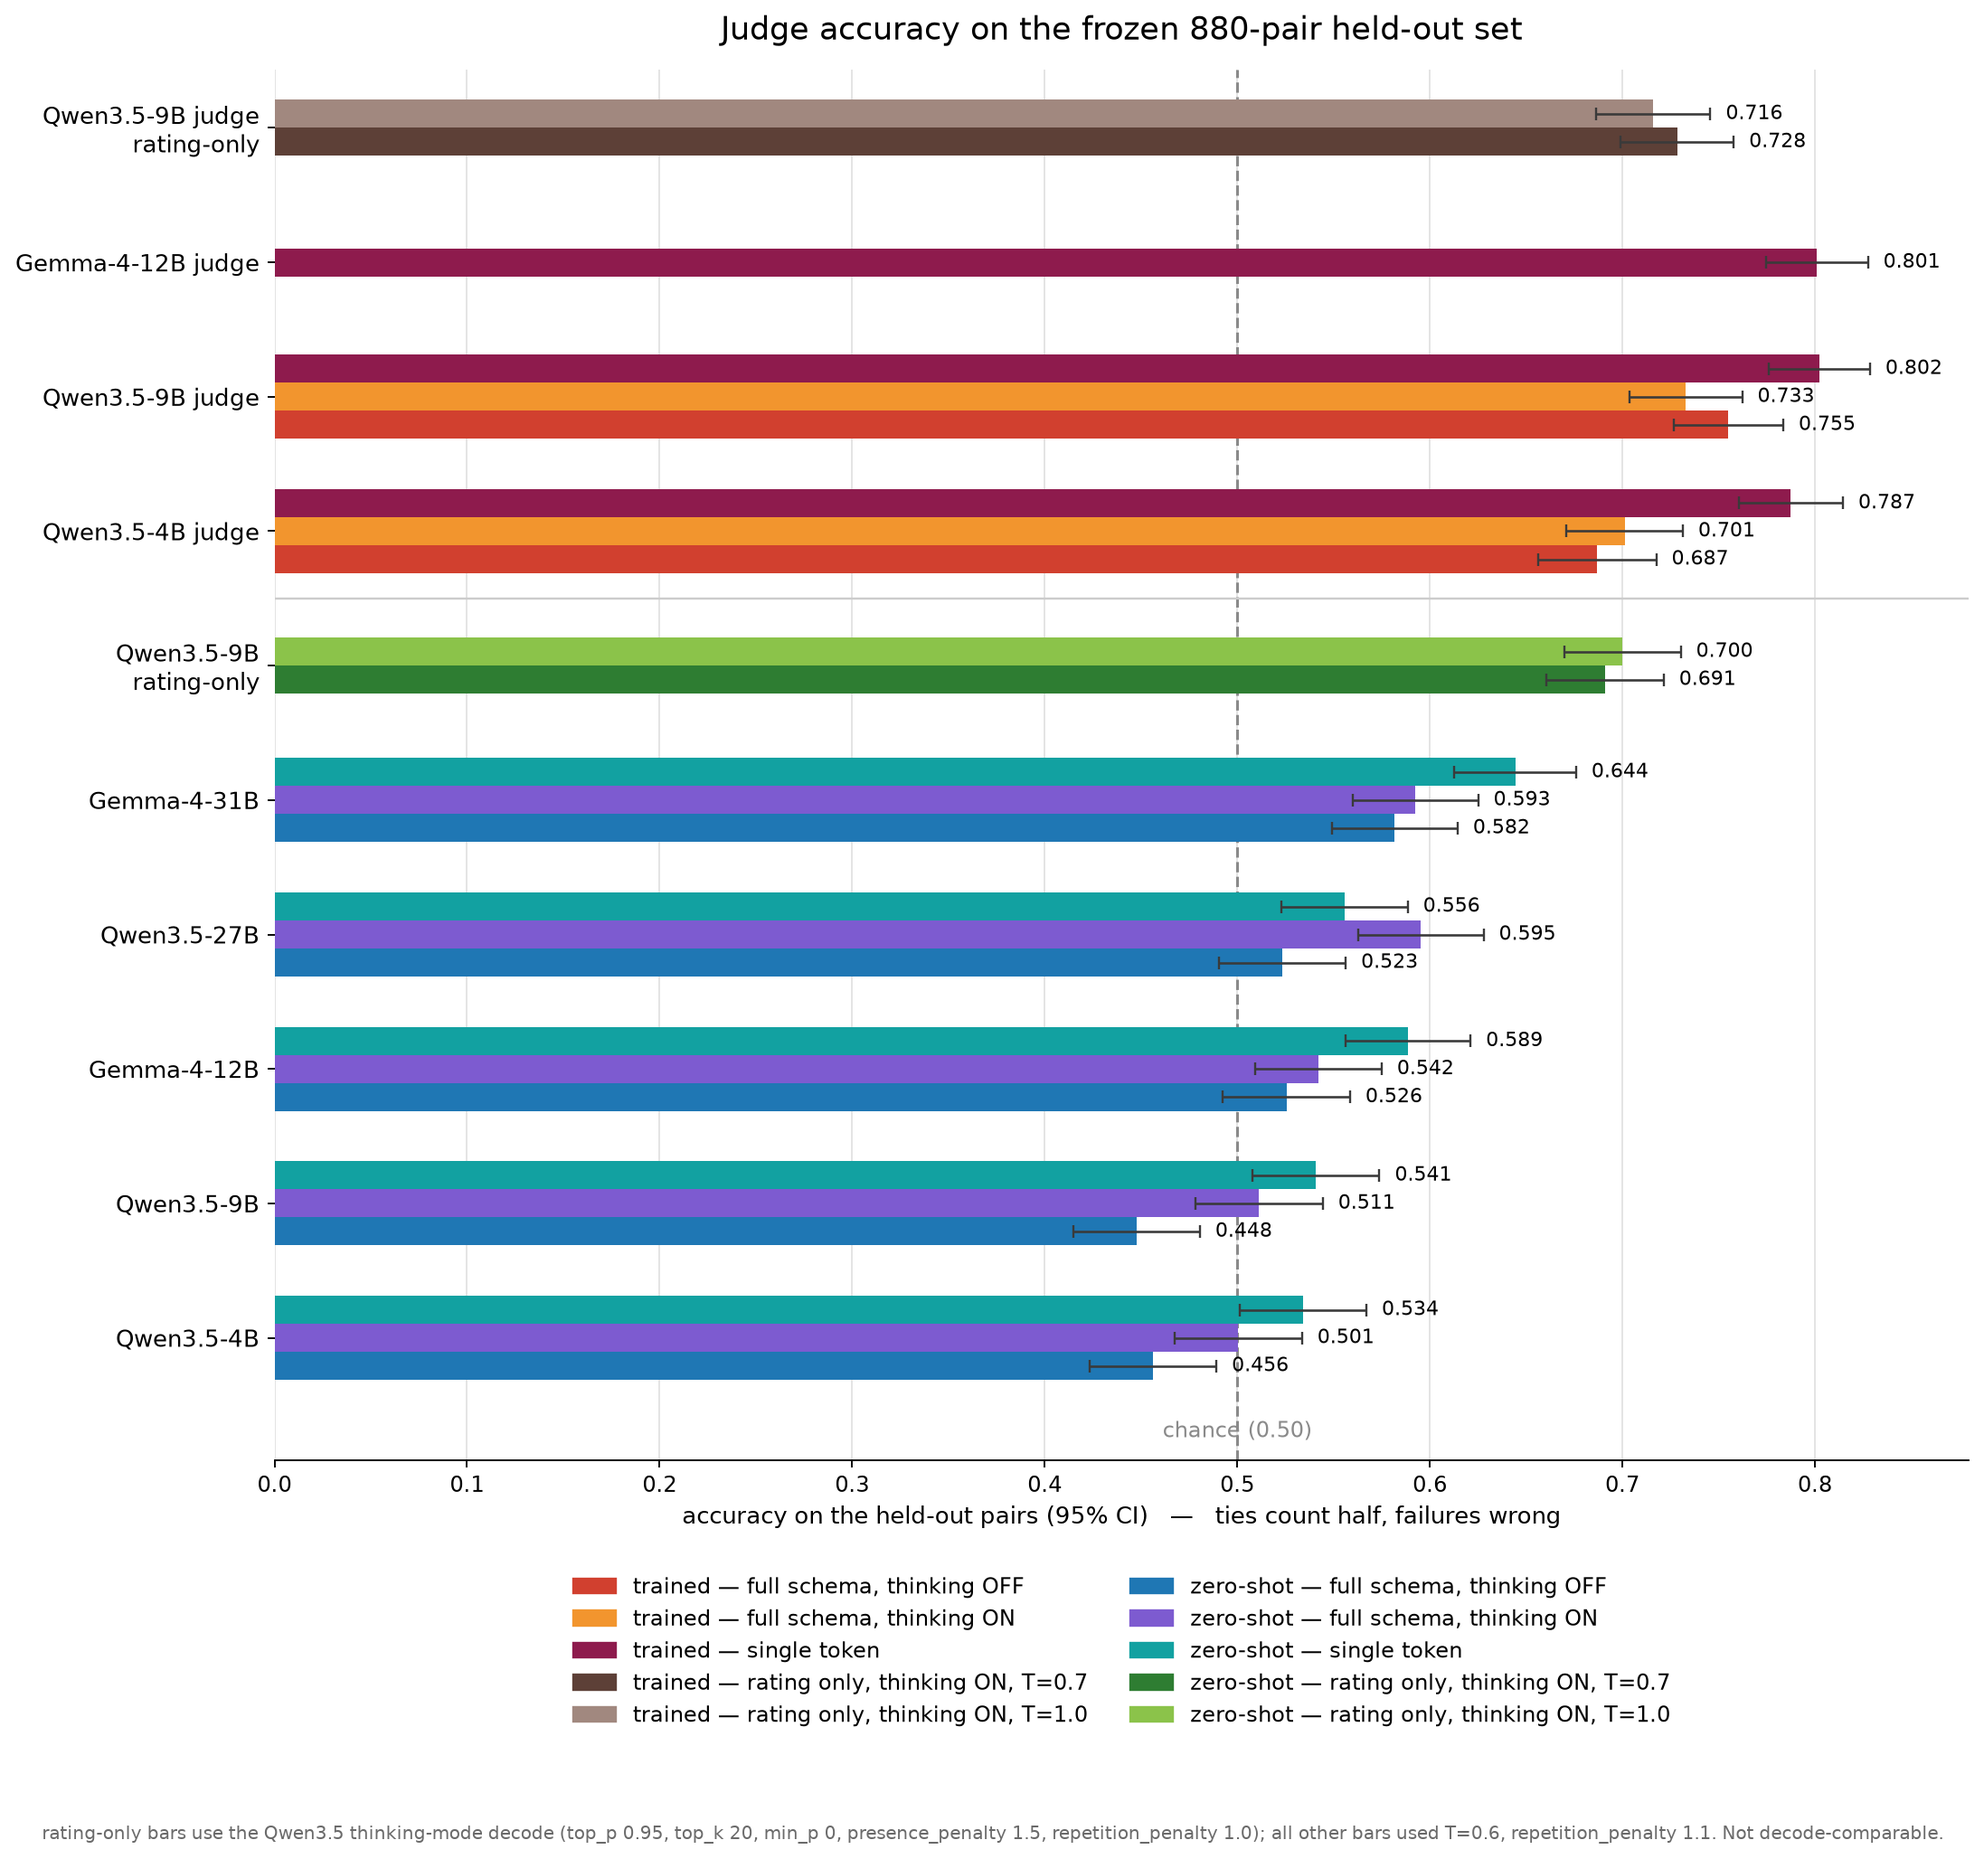
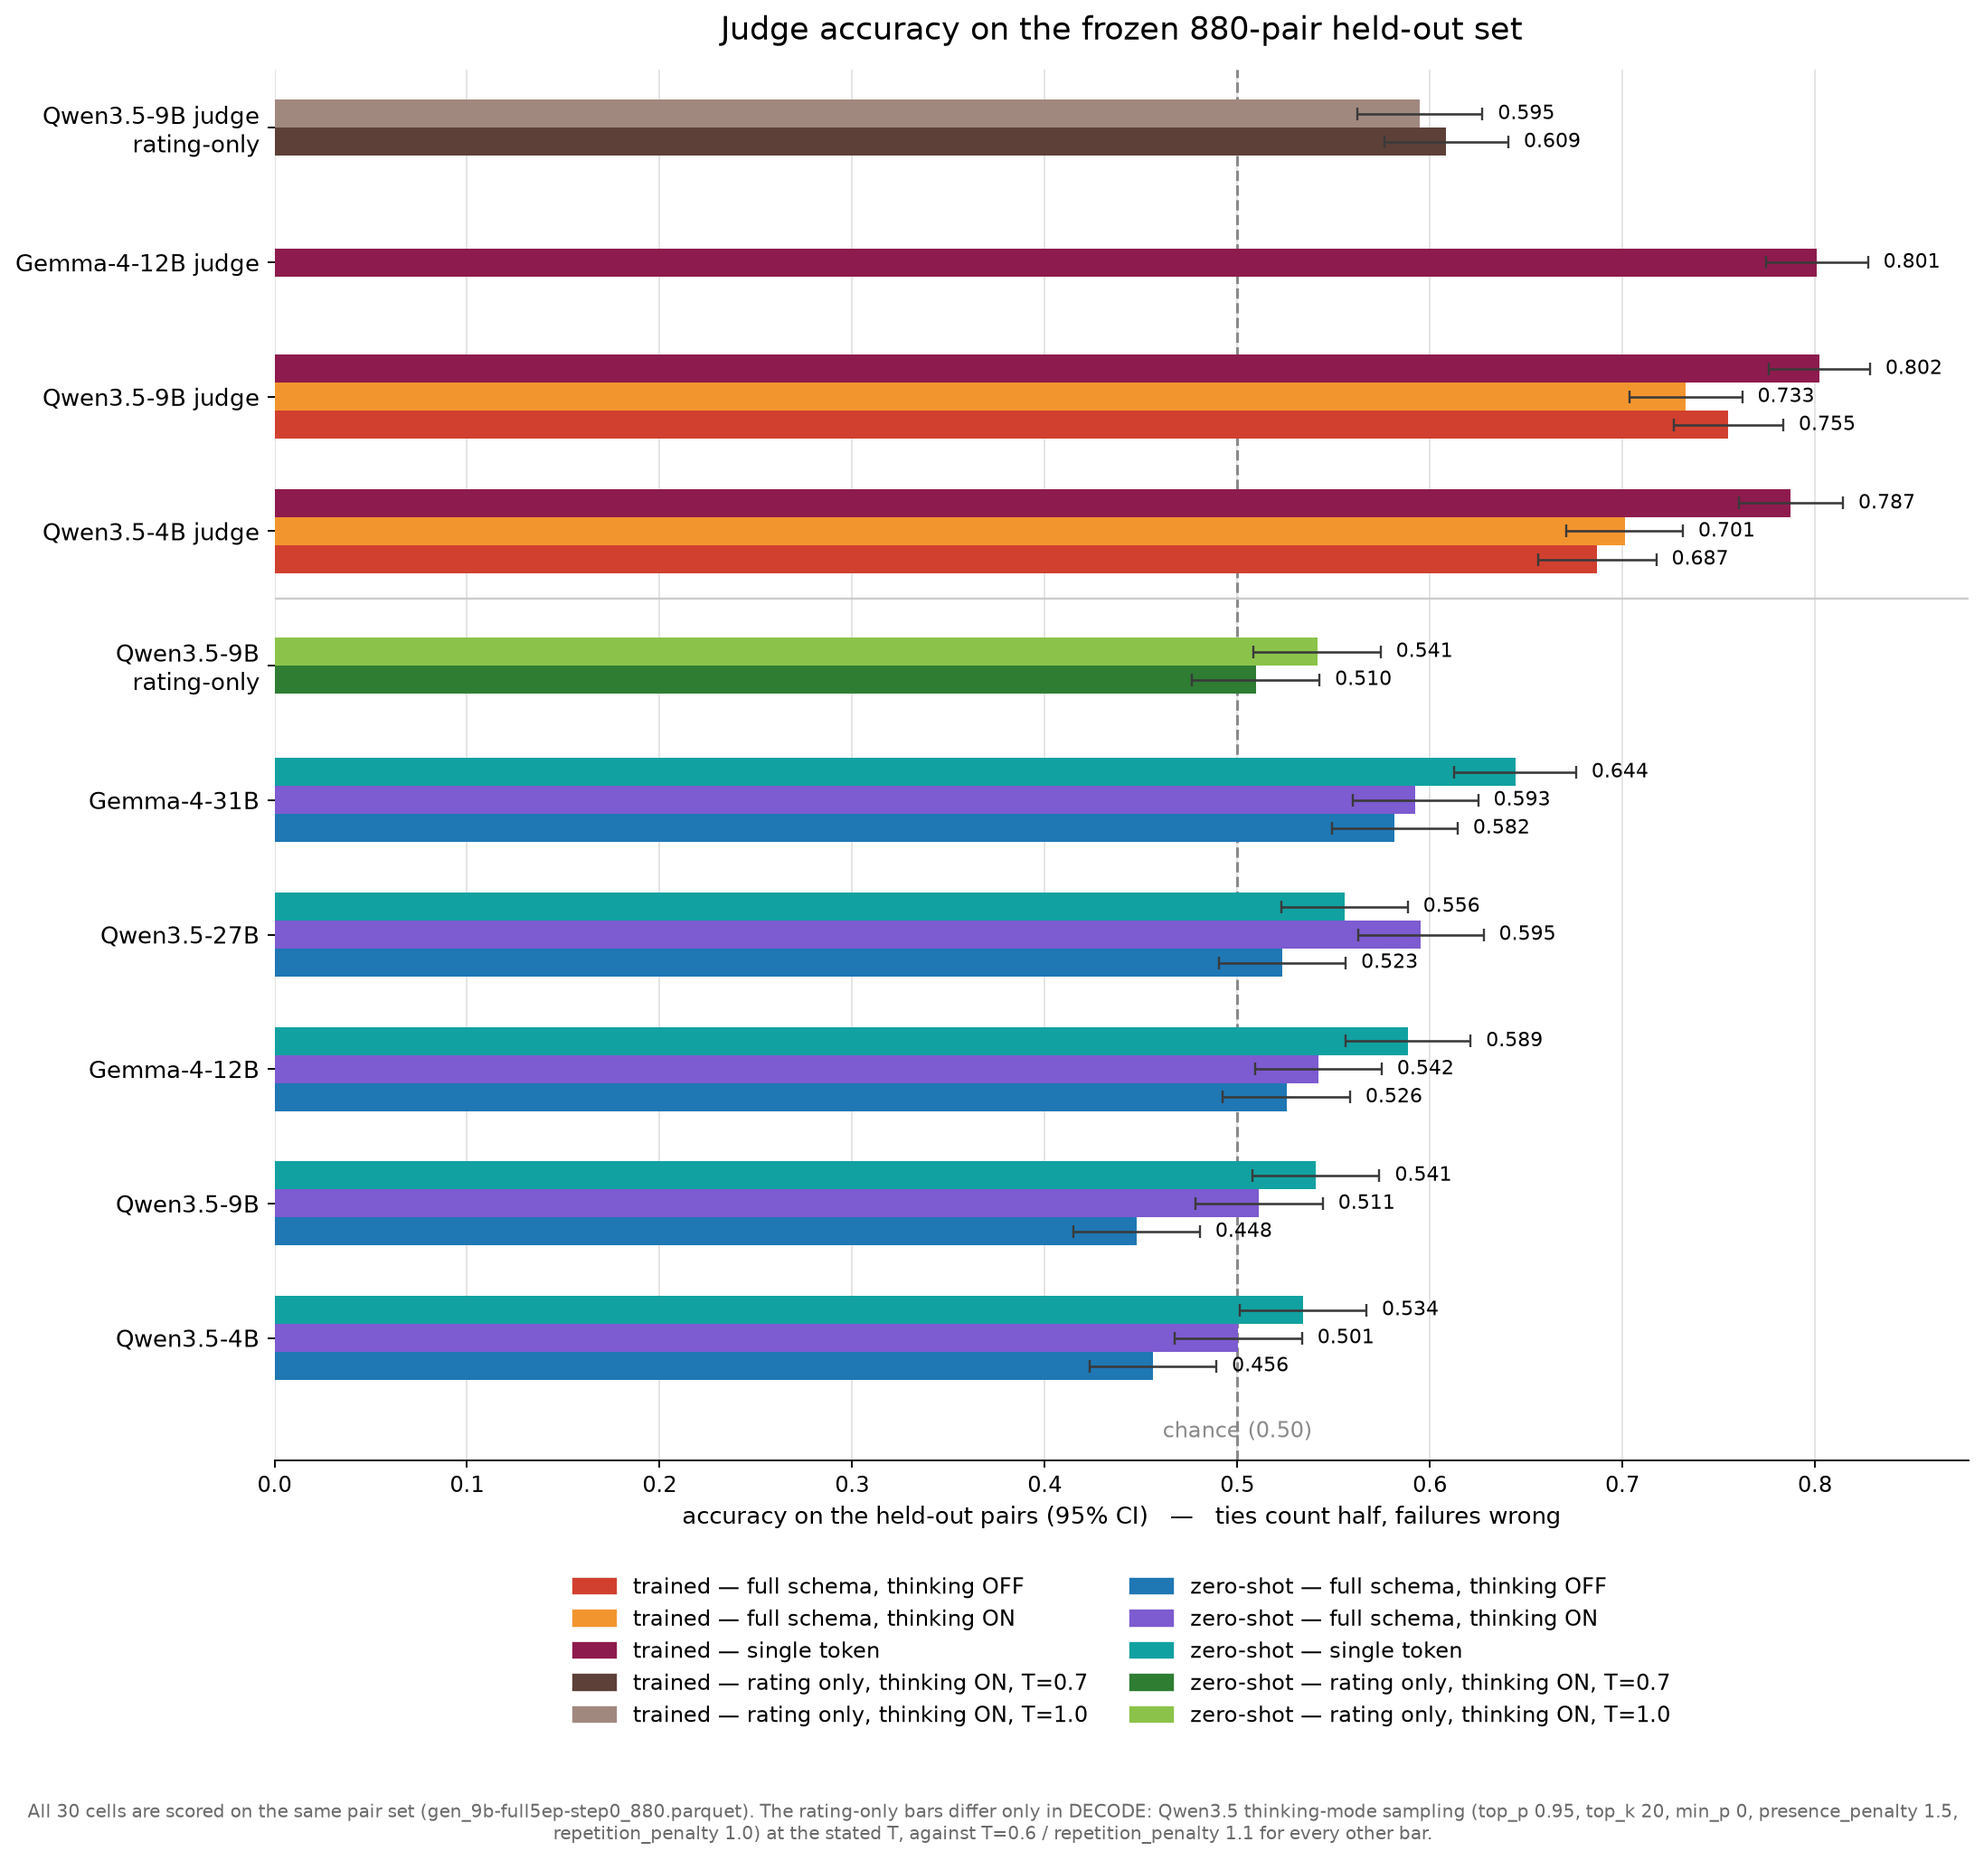
results: rescore the rating_only cells on the correct pair set
The four bars committed in a027be1 were scored against prism_heldout_880.parquet, taken from
judge_sweep_cell.sh's default. The chart's other 26 bars use gen_9b-full5ep-step0_880.parquet.
Plotting them together compared two different benchmarks, and the hand-merge that produced
comparison.csv bypassed build_single_token_comparison.py's pair_source check, which exists to
catch exactly this.

Rescored on the correct set (jobs 23585-23588, all COMPLETED 0:0, n=880, failure_rate 0.000):

                      discarded   correct
  trained   T=0.7       0.728      0.609
  trained   T=1.0       0.716      0.595
  zero-shot T=1.0       0.700      0.541
  zero-shot T=0.7       0.691      0.510

Same code, same decode, pair set the only variable. The discarded set's AI turns come from the
Qwen3-8B SFT with the stop-token masking bug -- 36% run past 5x the paired human turn -- so
accuracy there was substantially length detection.

The merge script now asserts every row shares one pair_source and refuses otherwise, rather
than concatenating blindly. The figure footnote no longer warns about mismatched data, because
there is none: all 30 cells are on one pair set and the rating_only bars differ only in decode.

rating_880.csv (the discarded numbers) is kept alongside rating_880_clean.csv so the record
shows what was measured and why it was rejected.

diff --git a/results/2026-09-16-rating-judge-880/make_plot.py b/results/2026-09-16-rating-judge-880/make_plot.py
@@ -98,9 +98,10 @@ LEGEND = [
 DIVIDER_AFTER = 5
 
 FOOTNOTE = (
-    "rating-only bars use the Qwen3.5 thinking-mode decode "
-    "(top_p 0.95, top_k 20, min_p 0, presence_penalty 1.5, repetition_penalty 1.0); "
-    "all other bars used T=0.6, repetition_penalty 1.1. Not decode-comparable."
+    "All 30 cells are scored on the same pair set (gen_9b-full5ep-step0_880.parquet). "
+    "The rating-only bars differ only in DECODE: Qwen3.5 thinking-mode sampling "
+    "(top_p 0.95, top_k 20, min_p 0, presence_penalty 1.5, repetition_penalty 1.0) at the "
+    "stated T, against T=0.6 / repetition_penalty 1.1 for every other bar."
 )
 
 FIGURES = [
